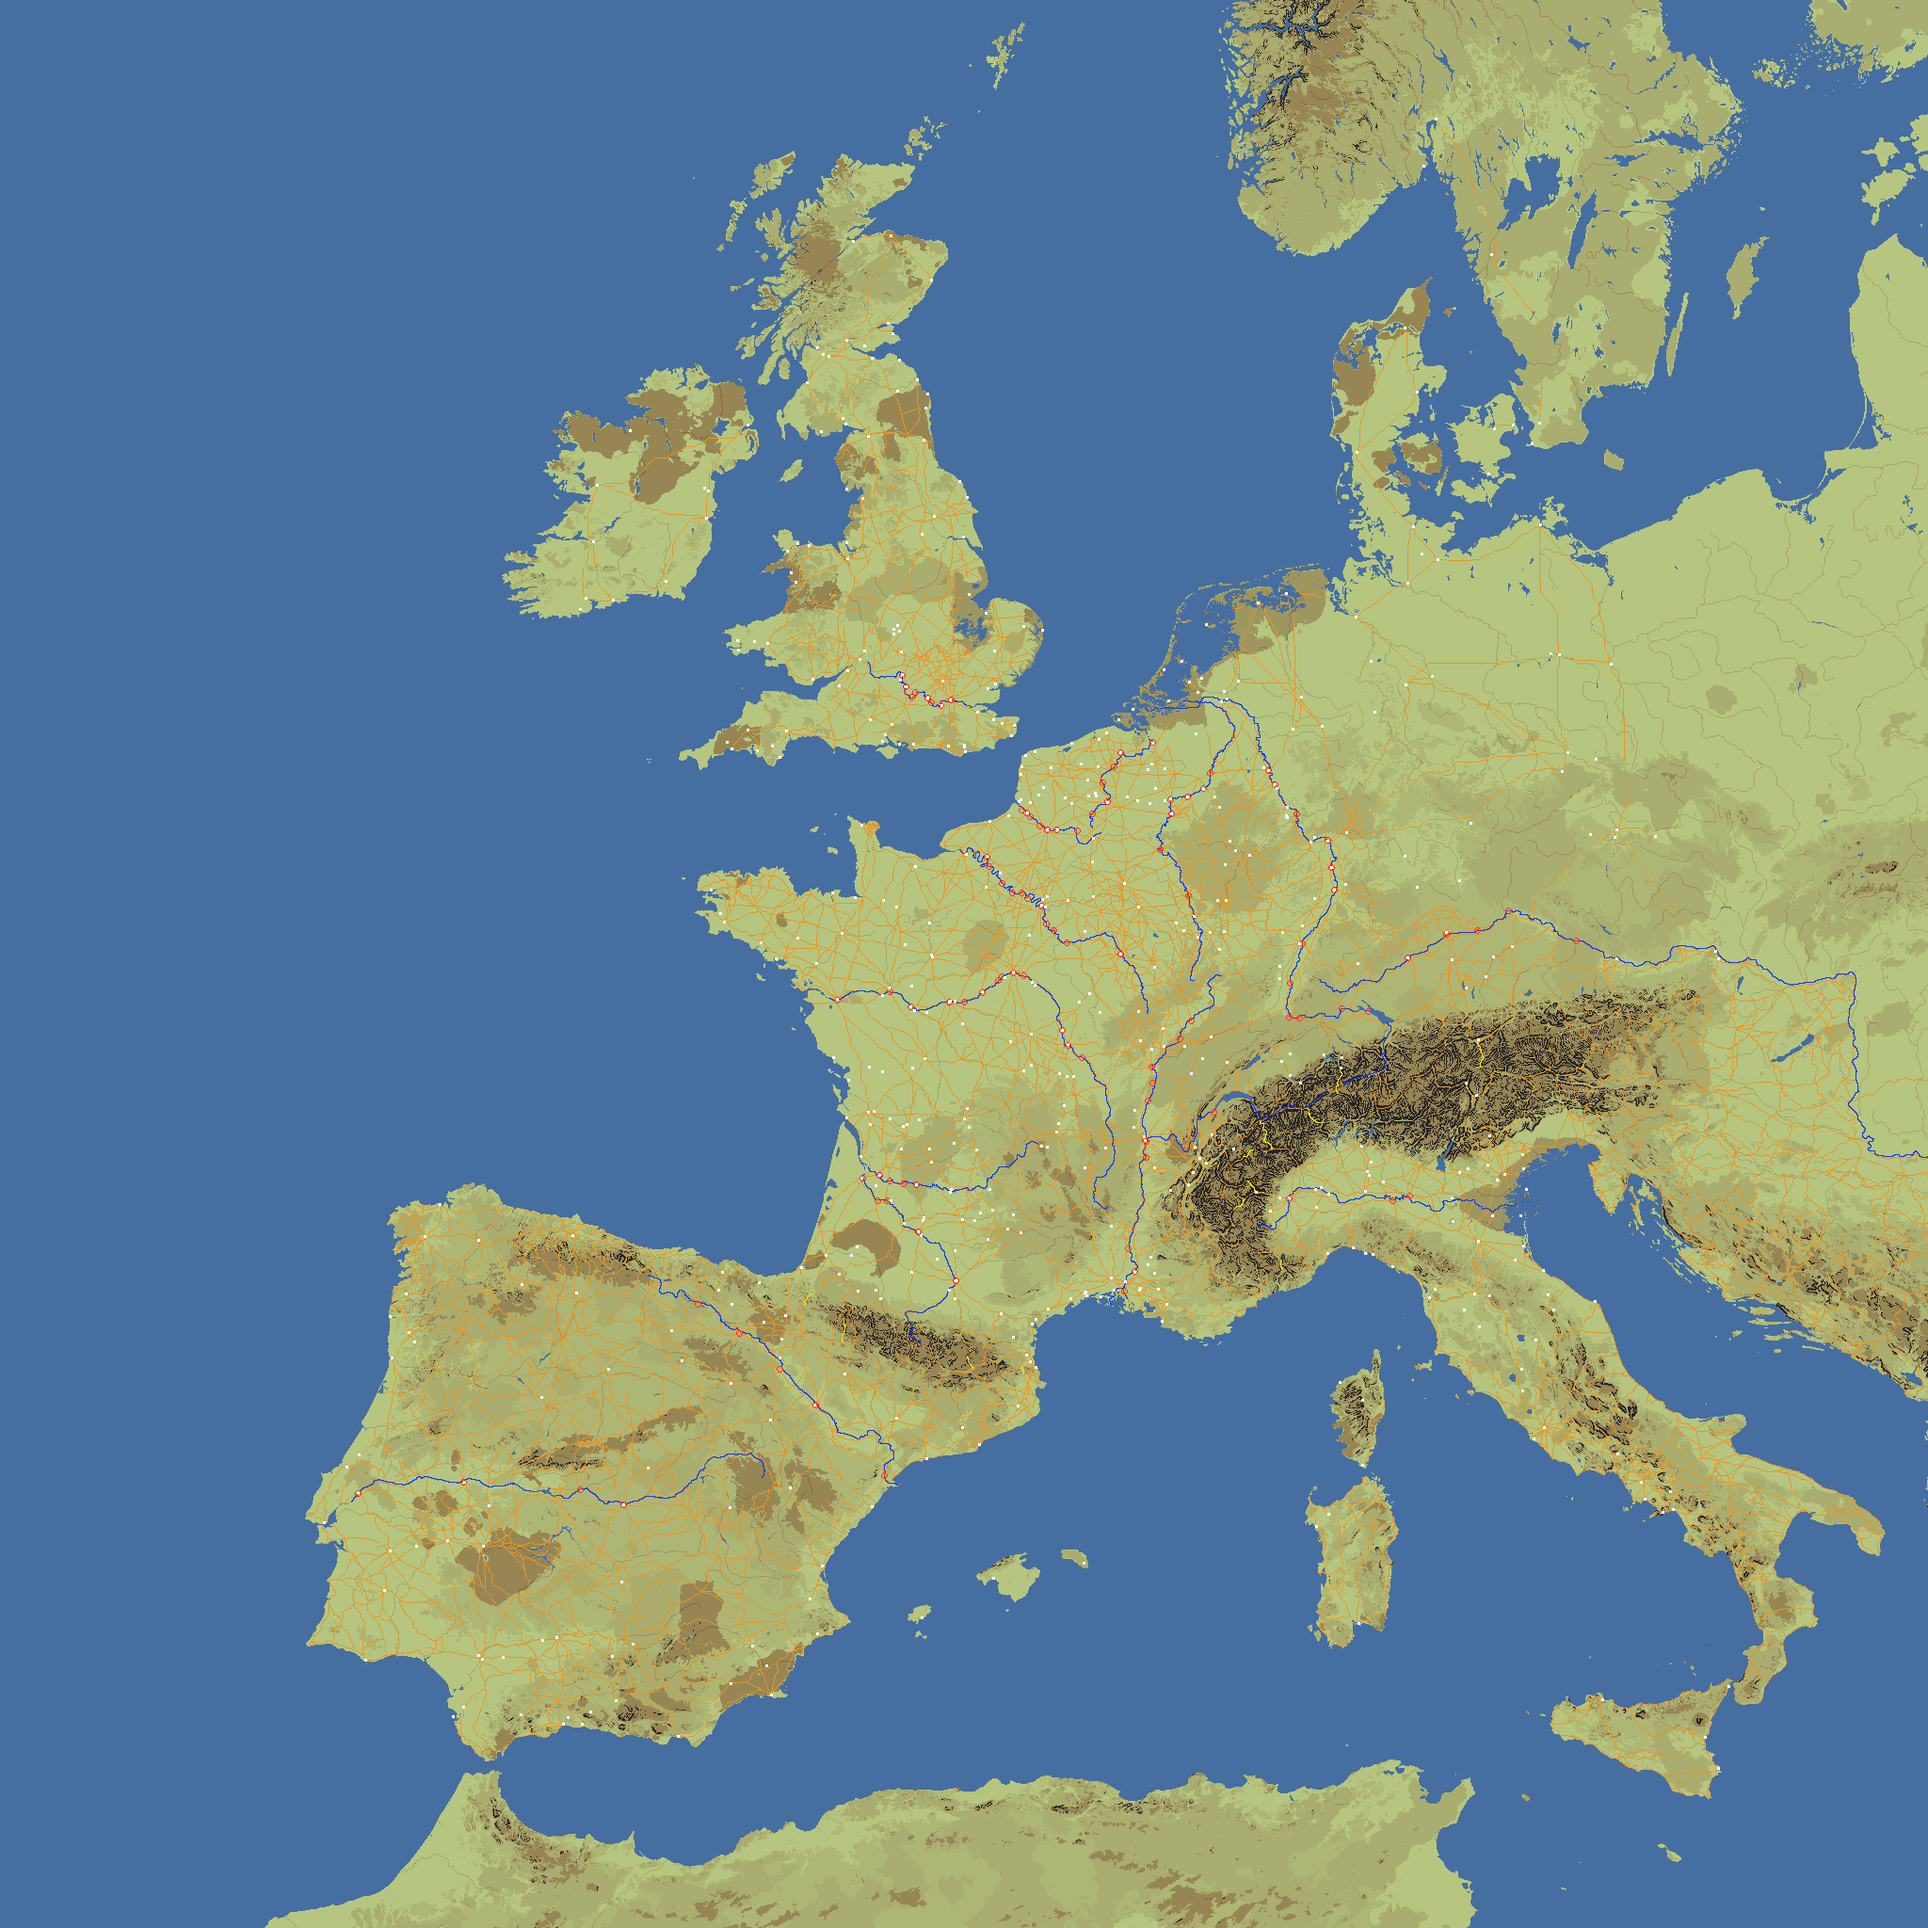
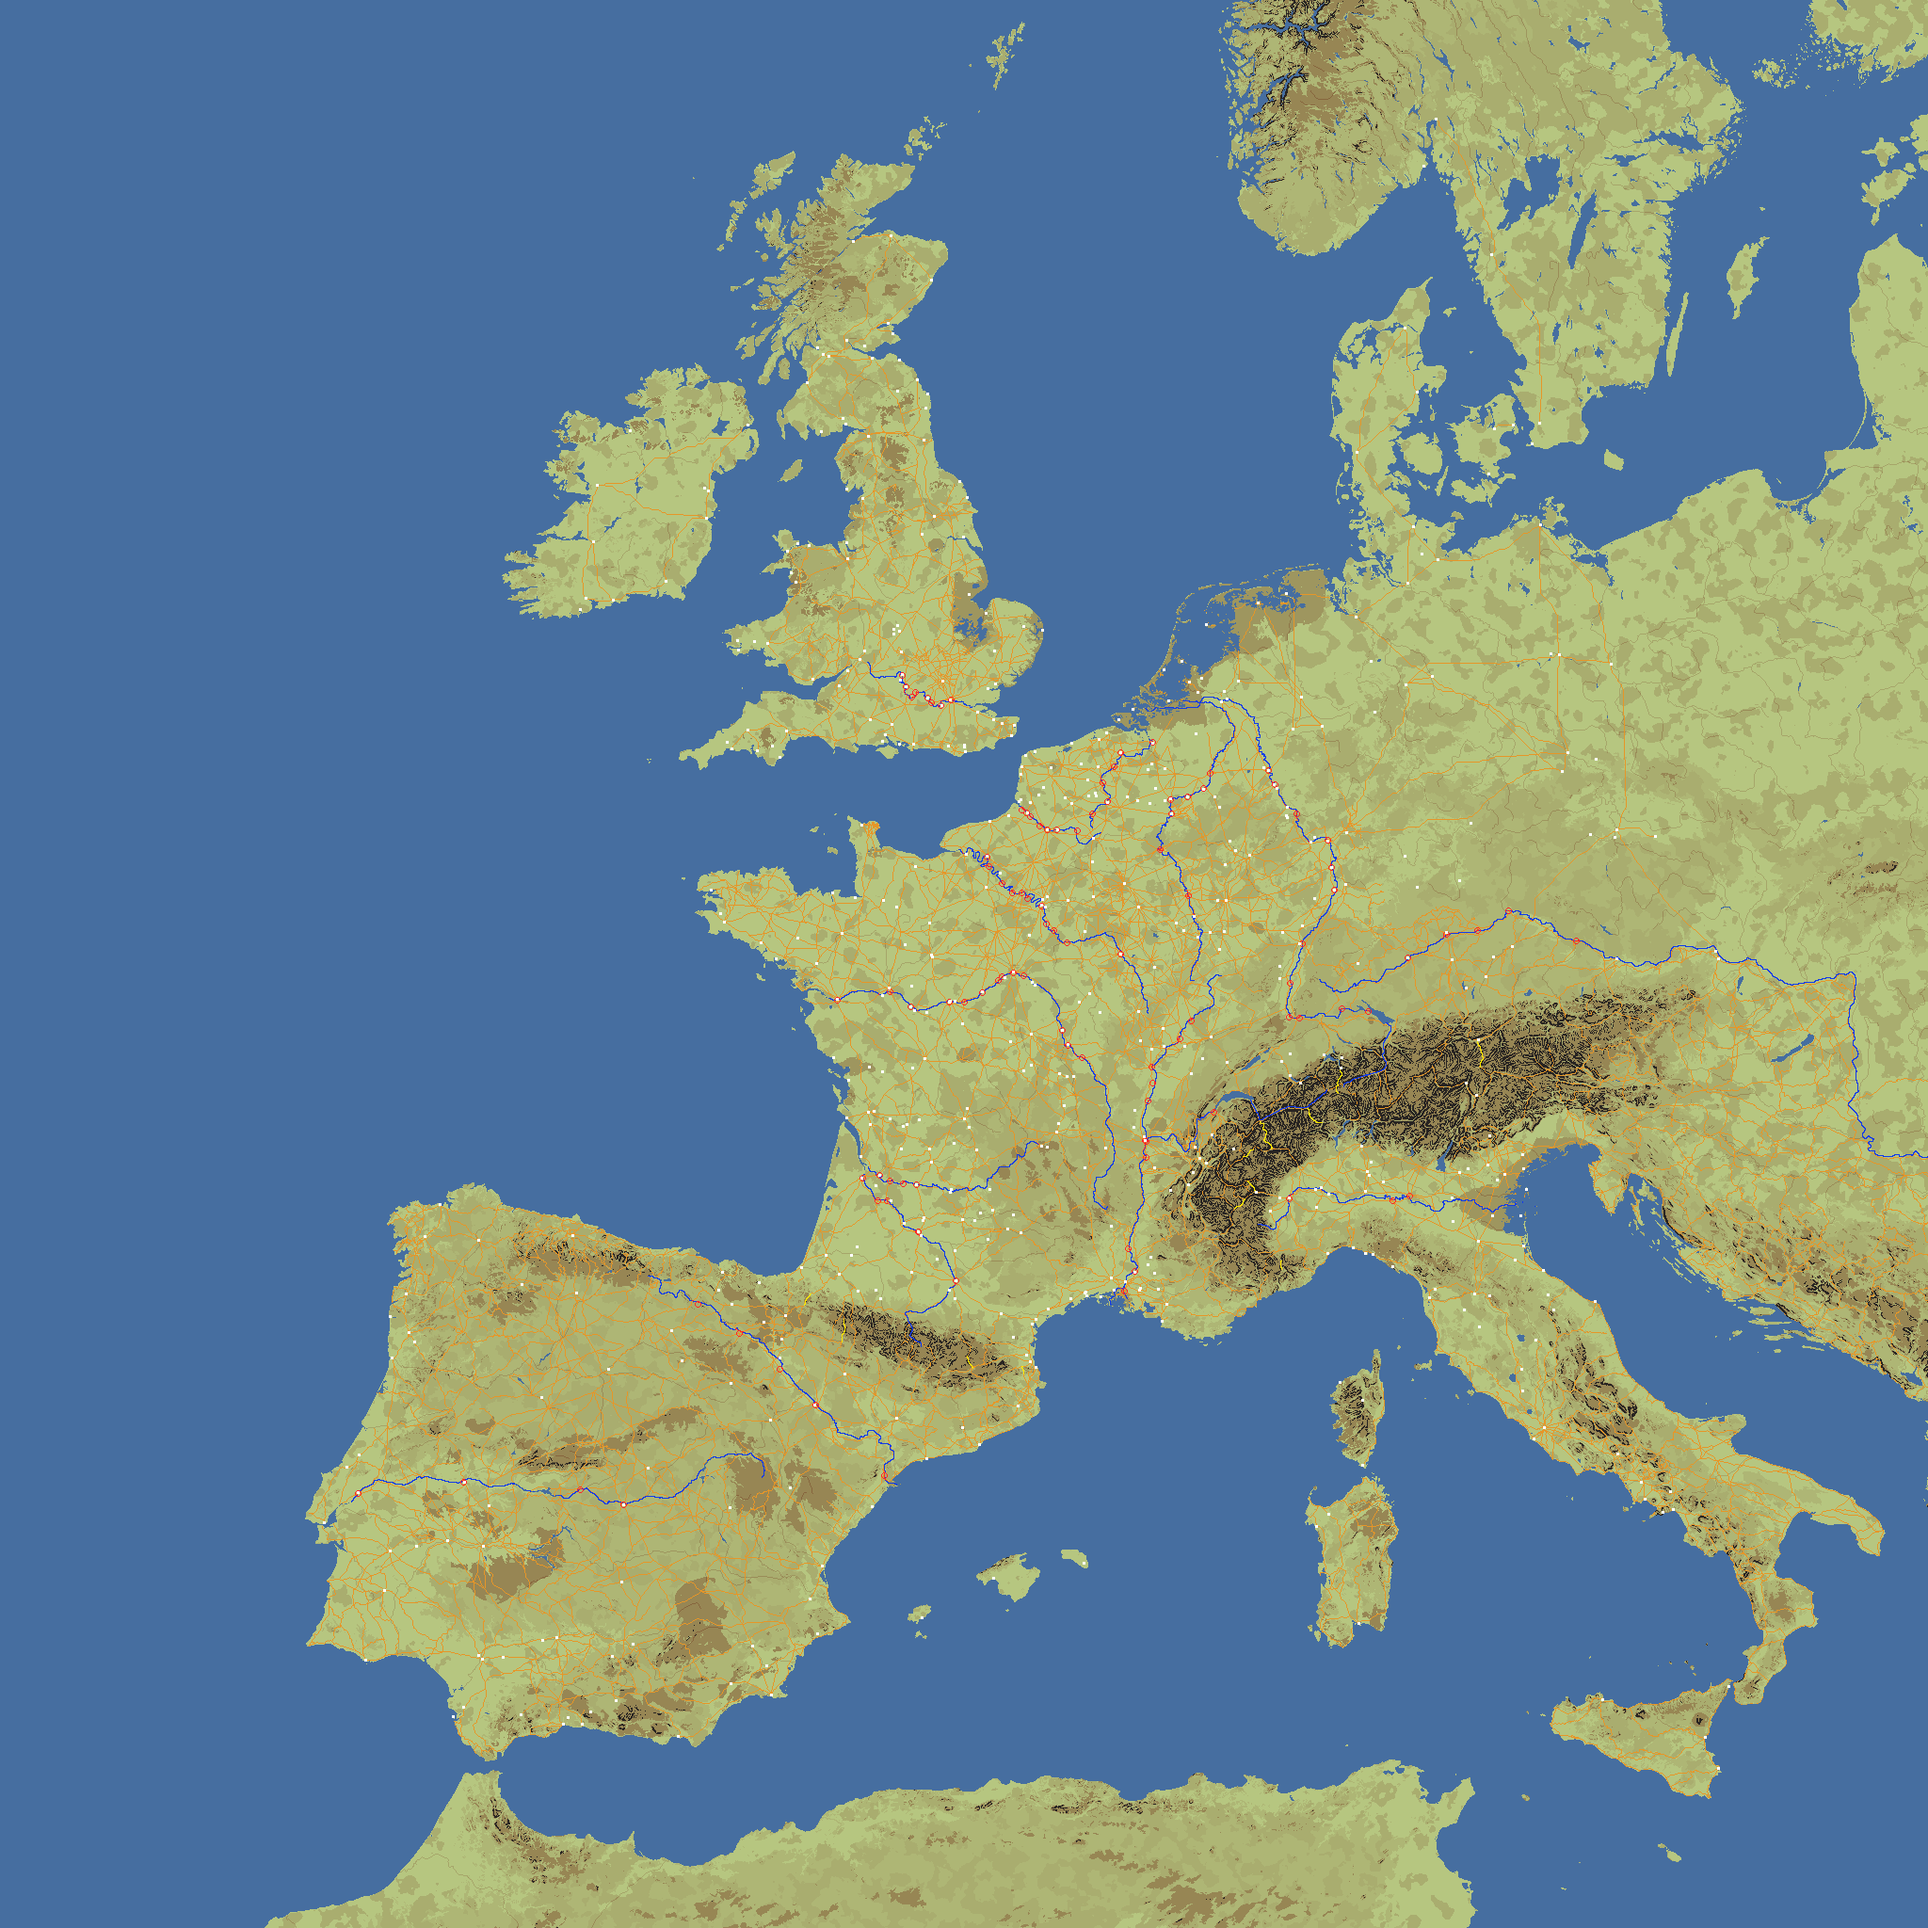
wip: regenerate navgrid from R1 forests and wetlands, drop navgrid_splat.png

diff --git a/tools/tests/test_navgrid.py b/tools/tests/test_navgrid.py
@@ -177,6 +177,22 @@ def test_splat_is_block_averaged_to_the_grid() -> None:
     assert cost.tolist() == [[costs["forest"], costs["plains"]]]
 
 
+def test_lowland_heath_is_not_a_mountain() -> None:
+    """Lot R3: the rock/heath weight makes a mountain on hills only."""
+    rules = navgrid.load_rules()
+    costs = rules["terrain_costs"]
+    weights = np.zeros((1, 2, 4))
+    weights[0, :, 3] = 0.8
+    result = navgrid.terrain_cost(
+        np.array([[40.0, 500.0]]),
+        np.full((1, 2), 0.01),
+        weights,
+        np.zeros((1, 2), dtype=bool),
+        rules,
+    )
+    assert result.tolist() == [[costs["plains"], costs["mountains"]]]
+
+
 def test_forest_and_marsh_are_never_walls() -> None:
     """Forests and marshes are slower than plains but always passable."""
     costs = navgrid.load_rules()["terrain_costs"]

diff --git a/tools/cent_ans_tools/geo/navgrid.py b/tools/cent_ans_tools/geo/navgrid.py
@@ -277,7 +277,10 @@ def terrain_cost(
     mountains = (
         (height >= MOUNTAINS_MIN_M)
         | (slope >= MOUNTAINS_MIN_SLOPE)
-        | (weights[..., 3] >= MOUNTAINS_MIN_ROCK)
+        # Rock or heath (splat A): mountains on hills only. Since lot R1 the
+        # channel also carries the lowland heaths (Landes, Campine, Lüneburg),
+        # which are open country, not mountains (lot R3).
+        | ((weights[..., 3] >= MOUNTAINS_MIN_ROCK) & hills)
     )
     for mask, name in (
         (hills, "hills"),
